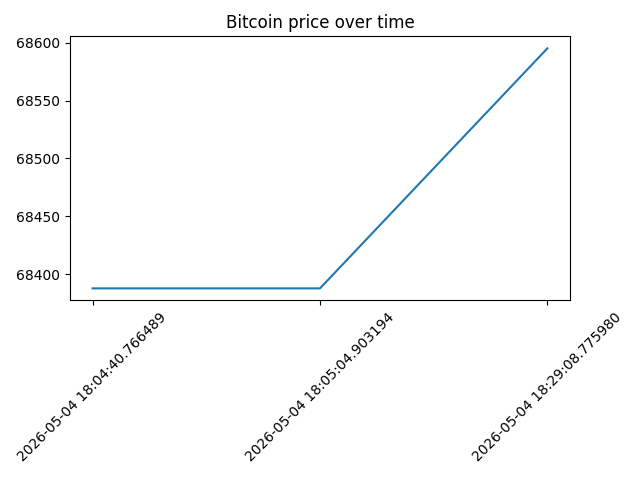
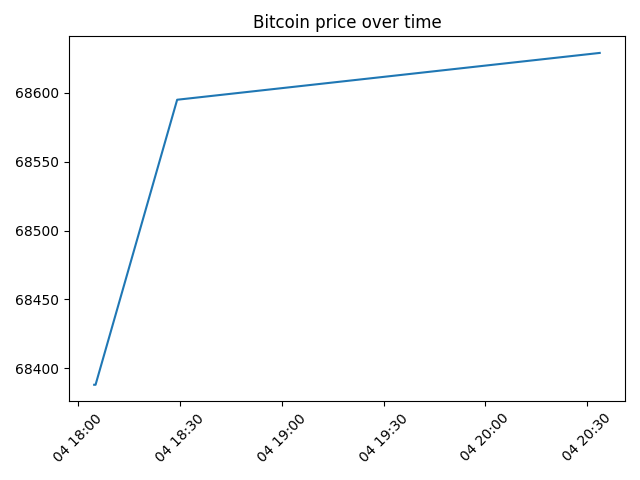
fix tests

diff --git a/scripts/process_data.py b/scripts/process_data.py
@@ -20,3 +20,11 @@ def save_kpis_json(kpis):
 
     with open("output/kpis.json", "w") as f:
         json.dump(kpis, f, indent=4)
+
+
+def compute_build_kpis(path='data/build_log.csv'):
+    df = pd.read_csv(path)
+    total = len(df)
+    success = len(df[df["status"] == "success"])
+    rate = (success/total) * 100
+    return rate

diff --git a/tests/test_build_kpi.py b/tests/test_build_kpi.py
@@ -1,3 +1,6 @@
+import sys
+sys.path.insert(0,'.')
+
 import pandas as pd
 from scripts.process_data import compute_build_kpis
 

diff --git a/tests/test_kpis.py b/tests/test_kpis.py
@@ -1,3 +1,5 @@
+import sys
+sys.path.insert(0,'.')
 import pandas as pd
 from scripts.process_data import compute_kpis
 